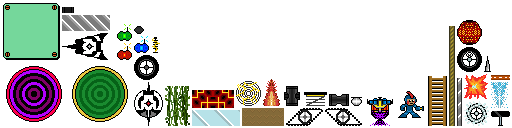
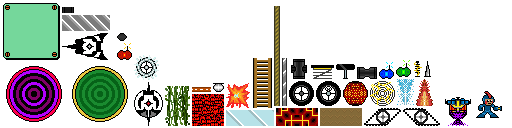
added second lava sprite and constants, implemented within asset manager and entity classes as well as thermal level json

Changed region(s): [[0.375, 0.0312, 1.0, 1.0], [0.2188, 0.1875, 0.3125, 0.625]]

diff --git a/core/src/com/udacity/gamedev/gigagal/app/LevelLoader.java b/core/src/com/udacity/gamedev/gigagal/app/LevelLoader.java
@@ -11,6 +11,7 @@ import com.udacity.gamedev.gigagal.entity.Coals;
 import com.udacity.gamedev.gigagal.entity.Ice;
 import com.udacity.gamedev.gigagal.entity.Knob;
 import com.udacity.gamedev.gigagal.entity.Ladder;
+import com.udacity.gamedev.gigagal.entity.Lava;
 import com.udacity.gamedev.gigagal.entity.Lift;
 import com.udacity.gamedev.gigagal.entity.Orben;
 import com.udacity.gamedev.gigagal.entity.Pillar;
@@ -349,6 +350,12 @@ final class LevelLoader {
                 final Coals coals = new Coals(coalsPosition, scale, adjustedCenter);
                 level.getGrounds().add(coals);
                 Gdx.app.log(TAG, "Loaded the coals at " + coalsPosition);
+            } else if (item.get(Constants.LEVEL_IMAGENAME_KEY).equals(Constants.LAVA_SPRITE_1)) {
+                Vector2 adjustedCenter = new Vector2(Constants.LAVA_CENTER.x * scale.x, Constants.LAVA_CENTER.y * scale.y);
+                final Vector2 lavaPosition = imagePosition.add(Constants.LAVA_CENTER);
+                final Lava lava = new Lava(lavaPosition, scale, adjustedCenter);
+                level.getGrounds().add(lava);
+                Gdx.app.log(TAG, "Loaded the lava at " + lavaPosition);
             } else if (item.get(Constants.LEVEL_IMAGENAME_KEY).equals(Constants.TREADMILL_1_LEFT)) {
                 Vector2 adjustedCenter = new Vector2(Constants.TREADMILL_CENTER.x * scale.x, Constants.TREADMILL_CENTER.y * scale.y);
                 final Vector2 treadmillPosition = imagePosition.add(Constants.TREADMILL_CENTER);

diff --git a/core/src/com/udacity/gamedev/gigagal/entity/Lava.java b/core/src/com/udacity/gamedev/gigagal/entity/Lava.java
@@ -7,9 +7,10 @@ import com.badlogic.gdx.utils.TimeUtils;
 import com.badlogic.gdx.utils.viewport.Viewport;
 import com.udacity.gamedev.gigagal.util.Assets;
 import com.udacity.gamedev.gigagal.util.Constants;
+import com.udacity.gamedev.gigagal.util.Enums;
 import com.udacity.gamedev.gigagal.util.Helpers;
 
-public class Lava implements UnbearableGround {
+public class Lava implements UnbearableGround, IndestructibleHazard {
 
     // fields
     private Vector2 position;
@@ -39,4 +40,7 @@ public class Lava implements UnbearableGround {
     @Override public final float getRight() { return position.x + Constants.LAVA_CENTER.x * scale.x; }
     @Override public final float getTop() { return position.y + Constants.LAVA_CENTER.y * scale.y; }
     @Override public final float getBottom() { return position.y - Constants.LAVA_CENTER.y * scale.y; }
+    @Override public final Enums.WeaponType getType() { return Enums.WeaponType.LIQUID; }
+    @Override public final Vector2 getKnockback() { return Constants.WHEEL_KNOCKBACK; }
+    @Override public final int getDamage() { return Constants.LAVA_DAMAGE; }
 }

diff --git a/core/src/com/udacity/gamedev/gigagal/util/Assets.java b/core/src/com/udacity/gamedev/gigagal/util/Assets.java
@@ -213,6 +213,7 @@ public final class Assets implements AssetErrorListener {
         public final Animation unloaded;
         public final Animation sink;
         public final Animation coals;
+        public final Animation lava;
 
 
         private GroundAssets(TextureAtlas atlas) {
@@ -297,6 +298,13 @@ public final class Assets implements AssetErrorListener {
 
             coals = new Animation(Constants.COALS_DURATION / coalsRegions.size,
                     coalsRegions, PlayMode.NORMAL);
+
+            Array<AtlasRegion> lavaRegions = new Array<AtlasRegion>();
+            lavaRegions.add(atlas.findRegion(Constants.LAVA_SPRITE_1));
+            lavaRegions.add(atlas.findRegion(Constants.LAVA_SPRITE_2));
+
+            lava = new Animation(Constants.LAVA_DURATION / lavaRegions.size,
+                    lavaRegions, PlayMode.NORMAL);
         }
     }
 

diff --git a/core/src/com/udacity/gamedev/gigagal/util/Constants.java b/core/src/com/udacity/gamedev/gigagal/util/Constants.java
@@ -187,6 +187,13 @@ public final class Constants {
     public static final String COALS_SPRITE_2 = "coals-2";
     public static final float COALS_DURATION = .25f;
 
+    // Lava
+    public static final Vector2 LAVA_CENTER = new Vector2(16, 16);
+    public static final String LAVA_SPRITE_1 = "lava-1";
+    public static final String LAVA_SPRITE_2 = "lava-2";
+    public static final float LAVA_DURATION = .25f;
+    public static final int LAVA_DAMAGE = 25;
+
     // Cannon
     public static final Vector2 X_CANNON_CENTER = new Vector2(10, 6);
     public static final String X_CANNON_SPRITE = "cannon-x";
